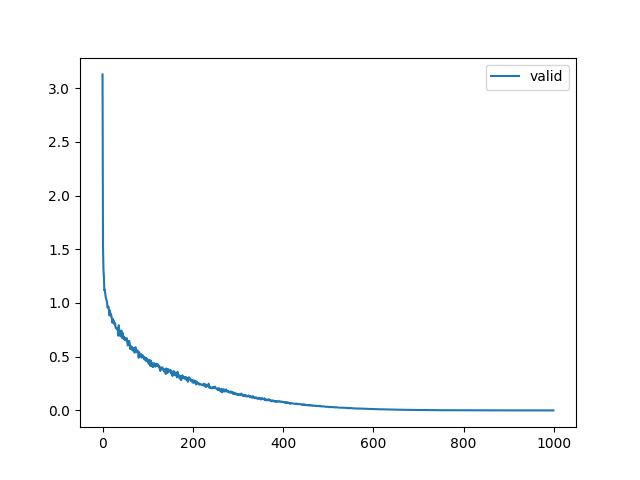
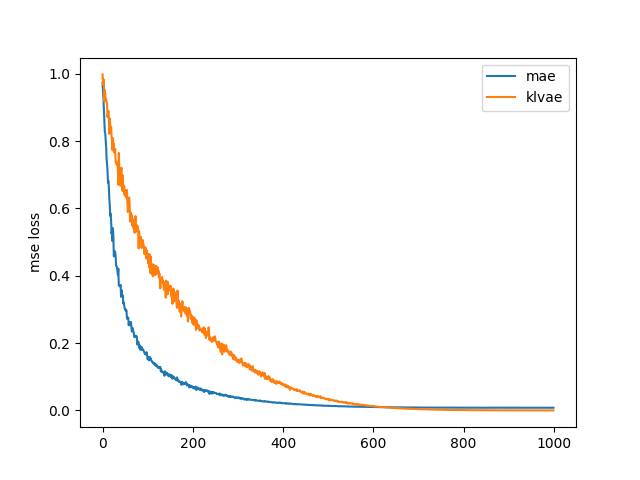
change config

diff --git a/rqvae/trainers/trainer_stage2.py b/rqvae/trainers/trainer_stage2.py
@@ -116,9 +116,7 @@ class Trainer(TrainerTemplate):
             # try merge y w same x
             
             all_x = all_x.cpu().numpy()
-            all_y = all_y.cpu().numpy()
-            
-            all_indices = set(all_x)
+            all_y = all_y.float().cpu().numpy()
             merged = {}
             for x, y in zip(all_x, all_y):
                 if x not in merged:
@@ -127,6 +125,13 @@ class Trainer(TrainerTemplate):
             all_x = list(merged.keys())
             all_x.sort()
             all_y = [sum(merged[x]) / len(merged[x]) for x in all_x]
+            import numpy as np
+            npy_x = np.array(all_x)
+            npy_y = np.array(all_y)
+            torch.save({
+                "x": npy_x,
+                "y": npy_y
+            }, f"plot_{mode}.pt")
             plt.plot(all_x, all_y, label=f"{mode}")
             plt.legend()
             plt.savefig(f"plot_{mode}.png")

diff --git a/debug/test_denoise.py b/debug/test_denoise.py
@@ -15,8 +15,8 @@ import numpy as np
 import torch_xla.core.xla_model as xm
 from torchvision.transforms import ToTensor, ToPILImage
 from torchvision.utils import make_grid
-#config_root = '/home/bytetriper/VAE-enhanced/ckpt_gcs/aW_DiT_B_1_b256_lr1e-4_ep120/DiTwmae/23072024_084126/'
-config_root = '/home/bytetriper/VAE-enhanced/ckpt_gcs/aW_DiT_B_2_b4096_blr1e-4_ep120/DiTwklvae/21072024_214020/'
+config_root = '/home/bytetriper/VAE-enhanced/ckpt_gcs/aW_DiT_B_1_b256_lr1e-4_ep120/DiTwmae/23072024_084126/'
+#config_root = '/home/bytetriper/VAE-enhanced/ckpt_gcs/aW_DiT_B_2_b4096_blr1e-4_ep120/DiTwklvae/21072024_214020/'
 config_path = os.path.join(config_root, 'config.yaml')
 @torch.no_grad()
 def main():

diff --git a/debug/tmp.py b/debug/tmp.py
@@ -1,0 +1,17 @@
+import torch
+from matplotlib import pyplot as plt
+
+if __name__ == '__main__':
+    np_data_mae = torch.load('plot_valid_mae.pt')
+    print(type(np_data_mae))
+    np_data_klvae = torch.load('plot_valid_klvae.pt')
+    x_mae = np_data_mae["x"]
+    y_mae = np_data_mae["y"]
+    x_klvae = np_data_klvae["x"]
+    y_klvae = np_data_klvae["y"]
+    plt.plot(x_mae, y_mae, label='mae')
+    plt.plot(x_klvae, y_klvae, label='klvae')
+    plt.legend()
+    plt.ylabel('mse loss')
+    
+    plt.savefig('plot_valid.png')

diff --git a/rqvae/models/DiT/__init__.py b/rqvae/models/DiT/__init__.py
@@ -38,7 +38,7 @@ class DiT_Stage2(Stage2Model):
         return {
             "loss_total": loss,
             "t": t,
-            'valid': (t, loss_dict["loss"]) if valid else None
+            'valid': (t, loss_dict["mse"]) if valid else None
         }
     def get_recon_imgs(self, xs_real, xs, **kwargs):
         return xs_real.clamp(0, 1), xs.clamp(0, 1)
